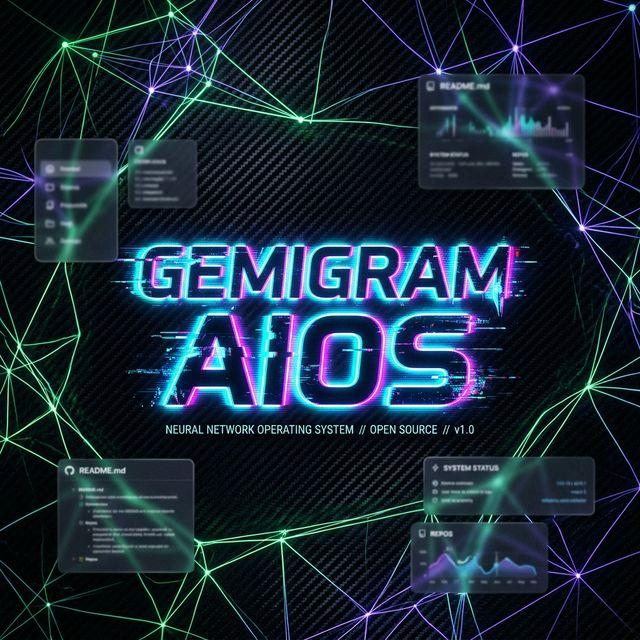
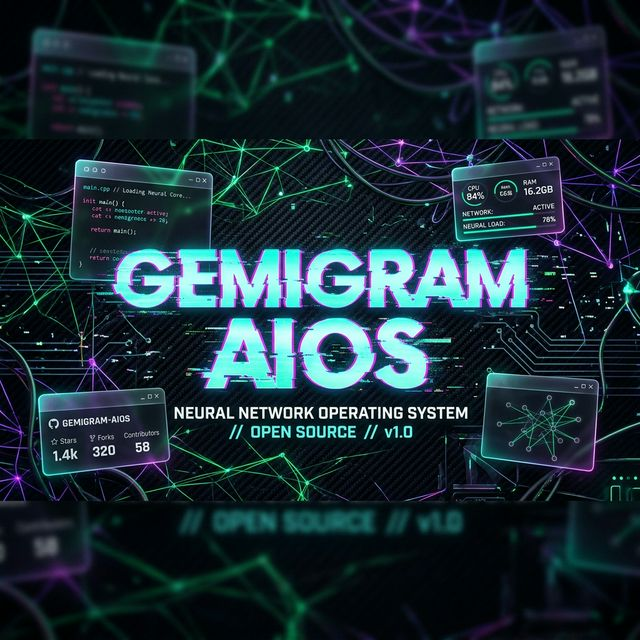
docs: align readme with gemigram standard and update gitignore

diff --git a/README.md b/README.md
@@ -1,35 +1,125 @@
-# 🧬 Gemclaw — The Neural Agent Orchestration System
+<p align="center">
+  <img src="./public/gemigram_hero_cover.png" alt="Gemigram AIOS Hero Banner" width="800"/>
+</p>
 
-> "The Real Claw Powered by Google's Gemini & Voice-First Agents"
+# 🌌 Gemigram AIOS — Sovereign Intelligence Orchestration System
 
-Gemclaw is a sovereign intelligence orchestration system designed for high-performance, voice-first AI agent creation and management. Built on a foundation of Next.js 15 and a high-concurrency Go backend, it leverages the Gemini Live WebSocket API to provide a zero-friction, multi-agent swarm experience.
+> **Built entirely on the Google & Gemini Ecosystem** | **تم البناء بالكامل على منظومة جوجل وجيمناي**
+> Create, deploy, and interact with sovereign AI agents using nothing but your voice. | أنشئ وانشر وتفاعل مع الوكلاء الأذكياء باستخدام صوتك فقط.
 
-## 🚀 Vision 2026
-Gemclaw aims to be the definitive platform for autonomous agent orchestration providing:
-- **Voice-First Interaction**: Pure voice-to-voice communication via the Neural-Spine Protocol.
-- **ClawHub Orchestration**: A powerful multi-agent manager (Swarm) built in Go.
-- **Spatial Workspace**: A dynamic, drag-and-drop canvas for managing complex agent hierarchies.
-- **Sovereign Security**: Enterprise-grade security via Firebase Auth and server-side reasoning.
+[![Built with Gemini](https://img.shields.io/badge/Built%20with-Gemini%20Live%20API-4285F4?style=for-the-badge&logo=google&logoColor=white)](https://ai.google.dev)
+[![Firebase](https://img.shields.io/badge/Backend-Firebase-FFCA28?style=for-the-badge&logo=firebase&logoColor=black)](https://firebase.google.com)
+[![Next.js](https://img.shields.io/badge/Framework-Next.js%2015-000000?style=for-the-badge&logo=next.js)](https://nextjs.org)
 
-## 🛠 Tech Stack
-- **Frontend**: Next.js 15 (App Router), TypeScript, TailwindCSS, Zustand (Neural Slices).
-- **Backend**: Go (Fiber) + Firebase Admin SDK + google-gemini/go.
-- **Infrastructure**: Firebase (Auth, Firestore, Hosting, Storage, Functions).
-- **AI**: Gemini 2.0/2.5 Flash, Gemini Live WebSocket.
+## 🎯 Vision | الرؤية
+**Eng:** Gemigram is an AI-first, voice-only agent creation platform inspired by Telegram bots and BotFather — but powered entirely by Google's Gemini ecosystem. Users create AI agents through natural voice conversation with "Aether Forge", our AI architect. **Zero manual API keys are required:** user authentication automatically gates and securely provisions system-level Gemini Live sessions.
 
-## 📂 Project Structure
-- `app/`: Next.js frontend application.
-- `backend/`: Go-based orchestration layer (ClawHub).
-- `lib/store/`: Unified 6-slice neural state management.
-- `scripts/`: Development and deployment utilities.
+**Ar:** جيميجزام (Gemigram) هي منصة مدعومة بالذكاء الاصطناعي لإنشاء الوكلاء الأذكياء عبر الصوت فقط. مبنية بالكامل على منظومة جوجل جيمناي. يقوم المستخدمون بإنشاء وكلاء ذكاء اصطناعي من خلال محادثة صوتية طبيعية مع "Aether Forge". **لا يلزم إدخال أي مفاتيح API يدوياً:** بمجرد تسجيل الدخول الآمن، يتم تهيئة مفاتيح النظام والجلسات تلقائياً عبر الخادم الخلفي (Backend).
 
-## 🧭 Roadmap
-- [x] Phase 0: Rebrand & Project Setup
-- [ ] Phase 1: Spatial Workspace & Feature Merge
-- [ ] Phase 2: Go Backend Foundation
-- [ ] Phase 3: ClawHub Go Migration
-- [ ] Phase 4: Integration & Optimization
-- [ ] Phase 5: Finalization & Open Source
+## 🏗 Google Ecosystem Integration | التكامل مع منظومة جوجل
+| Service | Usage | Free Tier | الاستخدام |
+|---------|-------|-----------|-----------|
+| **Gemini Live API** | Real-time voice conversation via WebSocket | ✅ Free with API key | المحادثة الصوتية في الوقت الفعلي |
+| **Gemini 2.0 Flash** | Agent blueprint synthesis & intelligence | ✅ Free tier available | بناء المخططات والذكاء الاصطناعي |
+| **Firebase Auth** | Google Sign-In, user management | ✅ Free (Spark plan) | تسجيل الدخول وإدارة المستخدمين |
+| **Cloud Firestore** | Agent storage, user data, memories | ✅ Free (1GB storage) | تخزين الوكلاء، البيانات، والذكريات |
+| **Firebase Storage** | File uploads, agent assets | ✅ Free (5GB) | رفع الملفات والأصول الرقمية |
+| **Firebase Hosting** | Web app deployment | ✅ Free (10GB/month) | نشر التطبيق الخادم على الويب |
+
+## ✨ Key Features | الميزات الأساسية
+
+### 🎙 Voice-First Agent Creation (Aether Forge) | إنشاء وكلاء بالصوت
+- **Eng:** Create AI agents entirely through voice conversation. AI-powered blueprint synthesis via Gemini with an 11-step conversational onboarding flow. Automatically assigns persona, tools, and skills.
+- **Ar:** قم بإنشاء وكلاء ذكاء اصطناعي بالكامل عبر المحادثة الصوتية. يتم بناء المخطط الذكي بفضل جيمناي واستنتاج الأدوات والمهارات المخصصة لكل وكيل.
+
+### 🧠 Gemini Live API Integration (Secure Router) | دمج Gemini Live
+- **Eng:** Native audio streaming via WebSocket (PCM 24kHz). Our secure `app/api/neural/router` automatically provisions connections for authenticated Firebase users without exposing secret keys client-side.
+- **Ar:** بث صوتي مباشر عبر WebSocket بجودة (PCM 24kHz). يقوم موجّهنا الآمن بتكوين الاتصالات تلقائياً للمستخدمين المصادقين دون كشف المفاتيح السرية في طرف العميل.
+
+### 🌐 Neural Marketplace | المتجر العصبي
+- **Eng:** Browse and install pre-built agent templates crafted with a stunning Neo-Brutalist, Cyberpunk UI (Neon Green, Glassmorphism).
+- **Ar:** تصفح وقم بتثبيت قوالب جاهزة للوكلاء، مصنوعة بواجهات زجاجية (Glassmorphism) وألوان نيون سيبرانية حديثة.
+
+## 🚀 Quick Start | البدء السريع
+
+### Prerequisites | المتطلبات الأساسية
+- Node.js 18+
+- Firebase project (free Spark plan)
+- Single System Gemini API key
+
+### 1. Clone & Install | النسخ والتثبيت
+```bash
+git clone https://github.com/Moeabdelaziz007/Gemclaw.git
+cd Gemclaw
+npm install
+```
+
+### 2. Configure Environment | إعداد بيئة العمل
+```bash
+cp .env.example .env.local
+```
+**Eng:** Fill in your Firebase config and place your SYSTEM `GEMINI_API_KEY` in the `.env.local`. Users will NOT need API keys.  
+**Ar:** ضع إعدادات Firebase ومفتاح نظام `GEMINI_API_KEY` الخاص بالمشروع الرئيسي. لن يحتاج المستخدمون لإدخال أي مفتاح بل سيعتمدون على تسجيل الدخول فقط.
+
+### 3. Launch Development | إطلاق التطبيق
+```bash
+npm run dev
+```
+
+## 📂 Architecture Index | فهرس البنية الهندسية
+```
+gemclaw/
+├── app/                          # Next.js 15 App Router
+│   ├── api/                      # 🔐 Server API Routes & Secure Gemini Router
+│   ├── dashboard/                # Agent overview & metrics
+│   ├── forge/                    # 🎙 Voice agent creation (Aether Forge)
+│   ├── workspace/                # 🧠 Voice interaction canvas
+│   ├── hub/                      # Agent registry browser
+│   ├── marketplace/              # 🛒 Neural Marketplace
+│   ├── galaxy/                   # 3D agent visualization
+│   └── settings/                 # Fully automated user settings (No API Keys)
+├── components/                   # React Components (MarketplaceCard, ForgeChamber...)
+├── lib/                          # Business Logic
+│   ├── store/                    # 🧠 Zustand 6-Slice Neural Store
+│   ├── neural/                   # Execution Engine & Cognitive routers
+│   └── voice/                    # Synthesis Engine
+└── public/                       # Assets & gemigram_hero_cover.png
+```
+
+## 🧠 State Management (6-Slice Neural Store) | إدارة الحالة العصبية
+
+| Slice (الشريحة) | Purpose | الغرض |
+|-----------------|---------|--------|
+| **Auth** | User session, Firebase auth persistence | جلسات المستخدم والحفاظ على حالة المصادقة |
+| **Agent** | Active agent registry, metadata, & CRUD | إدارة سجل الوكلاء النشطين وبياناتهم الوصفية |
+| **Cognitive** | Transcript history, streaming buffer | تاريخ المحادثات وتدفق الذاكرة والمصطلحات |
+| **Sensory** | Mic levels, volume management | إدارة الصوت، مستويات الميكروفون، والجلسة |
+| **UI** | Theme engine, navigation stages | محرك المظهر، مراحل التنقل الواجهي |
+| **Swarm** | Inter-agent communication protocols | بروتوكولات تواصل الوكلاء المتعدد (السرب) |
+
+## 🗺 Roadmap | خارطة الطريق
+- [x] Gemini Live API WebSocket integration | النشر السلس لمعمارية Gemini Live
+- [x] Voice-first agent creation (Aether Forge) | إنشاء وكلاء ذكاء اصطناعي بالصوت فقط
+- [x] Firebase Auth & Firestore persistence | دمج قواعد بيانات فايربيس بشكل كامل
+- [x] 6-Slice Zustand state architecture | هيكلة إدارة الحالة عبر شرائح Zustand
+- [x] Neural Marketplace with agent templates | إطلاق المتجر العصبي والنماذج
+- [x] PWA support with dynamic manifests | الدعم الشامل لتطبيقات PWA
+- [x] Arabic NLU & Localization Phase 1 | معالجة اللغات الطبيعية والتوطين للغة العربية
+- [ ] Multi-agent swarm orchestration | التنسيق المعياري لأسراب الوكلاء المتعددين
+- [ ] Agent-to-agent communication protocol | نظام بروتوكول تواصل الذكاء الاصطناعي الفرعي
+- [ ] Voice cloning with custom voice profiles | استنساخ الأصوات وبناء الملفات الصوتية المخصصة
+
+## 🤝 Contributing | المساهمة
+**Eng:** See [CONTRIBUTING.md](./CONTRIBUTING.md) for guidelines.  
+**Ar:** راجع ملف المساهمة (CONTRIBUTING.md) لمزيد من التعليمات والشروط.
+
+## 📄 License | الترخيص
+MIT License — See [LICENSE](./LICENSE)
 
 ---
-*Powered by Google Gemini & Aether Architect*
+
+<div align="center">
+  <strong>Built with ❤ on the Google & Gemini Ecosystem</strong><br/>
+  <strong>تم البناء بحب على منظومة أدوات جوجل وجيمناي</strong><br/>
+  <sub>Gemclaw AIOS — Where Voice Meets Intelligence | حيث يلتقي الصوت بالذكاء</sub>
+</div>
